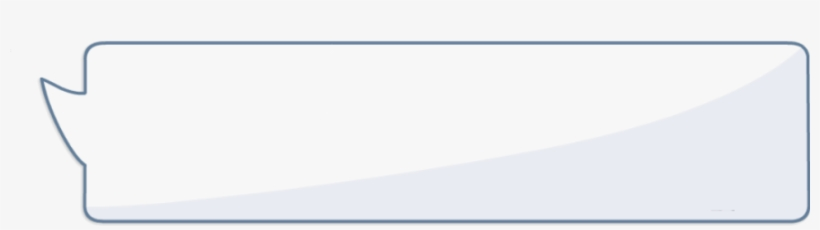
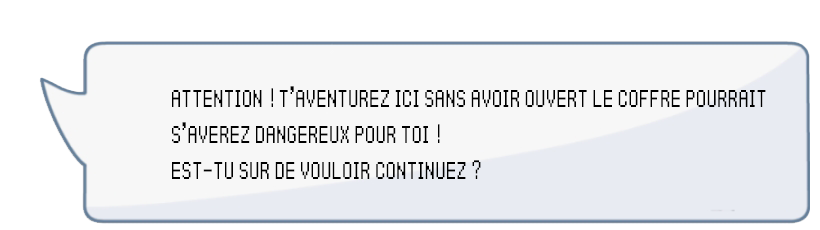
Added controls & dialog

diff --git a/index.html b/index.html
@@ -100,33 +100,16 @@
         <div class="rules-content">
             <span class="close">&times;</span>
             <span class="close-text">[Appuyer sur C pour fermer]</span>
-            <img src="img/objectifs.png" alt="objectifs" style="width:40%">
+            <img src="img/objectifs.png" alt="controles" style="width:40%">
         </div>
     </div>
 
     <div id="controls" class="controls">
         <div class="controls-content">
-            <span class="closeControls">&times;</span>
-
-            <img src="img/parchemin2.png" alt="Parchemin" style="width:100%;">
-            <div class="centered">
-                <div class="key-containers">
-                    <img id='upArrow' src="img/upArrow.png">
-                    <br>
-                    <img src="img/leftArrow.png">
-                    <img src="img/downArrow.png">
-                    <img src="img/rightArrow.png">
-                    <br>
-                    <div class="iKey">
-                        <img id="iKey" src="img/iKey.png">
-                        <p>Inventaire</p>
-                    </div>
-                    <p>Le jeu se joue avec les touches directives du clavier.</p>
-                    <p>Pour découvrir les objectifs du jeu, appuyez sur la touche "R"</p>
-                </div>
-            </div>    
+            <span class="close">&times;</span>
+            <span class="close-text">[Appuyer sur R pour fermer]</span>
+            <img src="img/controls.png" alt="controles" style="width:40%">
         </div>
-    </div>
     </div>
 
     <div id="bravo" class="bravo">

diff --git a/game.js b/game.js
@@ -501,11 +501,11 @@ document.addEventListener('keyup', (event) =>{
     }
 
     if (key === 'r') {
-        var rules = document.getElementById('rules');
-        if (rules.style.display === 'block') {
-          rules.style.display = 'none';
+        var controls = document.getElementById('controls');
+        if (controls.style.display === 'block') {
+          controls.style.display = 'none';
         } else {
-          rules.style.display = 'block';
+          controls.style.display = 'block';
         }
     }
     if (key === 'c') {

diff --git a/style.css b/style.css
@@ -139,6 +139,7 @@ body {
   height: 100%;
   overflow: auto;
   background-color: rgba(0, 0, 0, 0.5);
+  backdrop-filter: blur(20px);
 }
 
 .erreur {
@@ -448,7 +449,7 @@ body {
   height: 100%;
   overflow: auto;
   background-color: rgba(0, 0, 0, 0.5);
-  backdrop-filter: blur(15px);
+  backdrop-filter: blur(5px);
   align-items: center;
   justify-content: center;
 }
@@ -457,6 +458,8 @@ body {
   position: absolute;
   left: 50%;
   top: 50%;
+  width: 100%;
+  height: 100%;
   transform: translate(-50%, -50%);
   text-align: center;
 }
